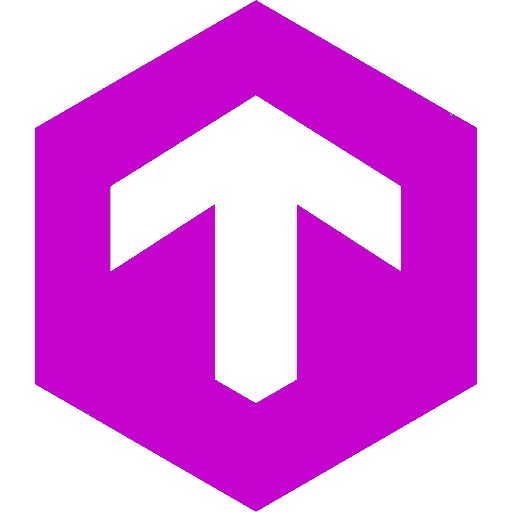
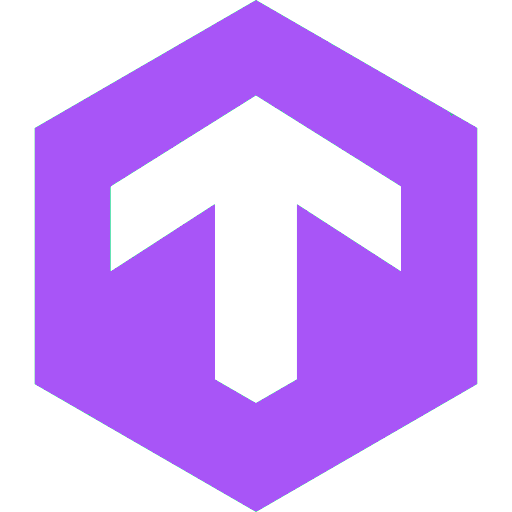
added popup function with nice design

diff --git a/popup.html b/popup.html
@@ -1,0 +1,149 @@
+<!DOCTYPE html>
+<html>
+<head>
+  <style>
+    :root {
+      --bg-dark: #121212;
+      --card-bg: #1e1e1e;
+      --accent-purple: #a855f7;
+      --glow: rgba(168, 85, 247, 0.4);
+      --text-main: #e0e0e0;
+      --text-dim: #888;
+    }
+
+    body {
+      width: 240px;
+      background-color: var(--bg-dark);
+      color: var(--text-main);
+      font-family: 'Segoe UI', system-ui, -apple-system, sans-serif;
+      margin: 0;
+      padding: 16px;
+      display: flex;
+      justify-content: center;
+    }
+
+    .app-container {
+      width: 100%;
+      background: var(--card-bg);
+      border: 1px solid rgba(255, 255, 255, 0.05);
+      border-radius: 12px;
+      padding: 14px;
+      box-shadow: 0 10px 30px rgba(0, 0, 0, 0.5);
+    }
+
+    .header {
+      display: flex;
+      align-items: center;
+      gap: 10px;
+      padding-bottom: 12px;
+      border-bottom: 1px solid rgba(255, 255, 255, 0.1);
+      margin-bottom: 16px;
+    }
+
+    .logo-img {
+      width: 28px;
+      height: 28px;
+      object-fit: contain;
+      /* Purple glow for the logo */
+      filter: drop-shadow(0 0 5px var(--glow)); 
+    }
+
+    h2 {
+      font-size: 13px;
+      font-weight: 600;
+      margin: 0;
+      letter-spacing: 0.8px;
+      color: #fff;
+      text-transform: uppercase;
+    }
+
+    .row {
+      display: flex;
+      justify-content: space-between;
+      align-items: center;
+    }
+
+    .label-group {
+      display: flex;
+      flex-direction: column;
+    }
+
+    .main-label { font-size: 13px; font-weight: 500; }
+    .sub-label { font-size: 10px; color: var(--text-dim); margin-top: 2px; }
+
+    .switch {
+      position: relative;
+      display: inline-block;
+      width: 42px;
+      height: 22px;
+    }
+
+    .switch input { opacity: 0; width: 0; height: 0; }
+
+    .slider {
+      position: absolute;
+      cursor: pointer;
+      top: 0; left: 0; right: 0; bottom: 0;
+      background-color: #333;
+      transition: .3s cubic-bezier(0.4, 0, 0.2, 1);
+      border-radius: 34px;
+    }
+
+    .slider:before {
+      position: absolute;
+      content: "";
+      height: 16px;
+      width: 16px;
+      left: 3px;
+      bottom: 3px;
+      background-color: #fff;
+      transition: .3s cubic-bezier(0.4, 0, 0.2, 1);
+      border-radius: 50%;
+      box-shadow: 0 2px 4px rgba(0,0,0,0.4);
+    }
+
+    input:checked + .slider {
+      background-color: var(--accent-purple);
+      box-shadow: 0 0 15px var(--glow);
+    }
+
+    input:checked + .slider:before {
+      transform: translateX(20px);
+    }
+
+    .footer {
+      margin-top: 16px;
+      padding-top: 10px;
+      border-top: 1px solid rgba(255, 255, 255, 0.05);
+      font-size: 9px;
+      color: #555;
+      text-align: center;
+      letter-spacing: 0.5px;
+    }
+  </style>
+</head>
+<body>
+  <div class="app-container">
+    <div class="header">
+      <img src="icon.png" alt="Logo" class="logo-img">
+      <h2>CHECKMK NAVI</h2>
+    </div>
+    
+    <div class="row">
+      <div class="label-group">
+        <span class="main-label">Auto-Navigation</span>
+        <span class="sub-label">Ensures full UI wrap</span>
+      </div>
+      <label class="switch">
+        <input type="checkbox" id="toggleNav" checked>
+        <span class="slider"></span>
+      </label>
+    </div>
+
+    <div class="footer">
+      v1.2
+    </div>
+  </div>
+  <script src="popup.js"></script>
+</body>
+</html>

diff --git a/content.js b/content.js
@@ -1,19 +1,19 @@
 (function() {
-    if (window.self !== window.top) return;
+    chrome.storage.local.get(['enabled'], (result) => {
+        if (result.enabled === false) return;
 
-    const currentUrl = window.location.href;
-    const nakedScripts = /(dashboard|view|wato|graph_explorer|availability|discovery|conf)\.py/;
+        if (window.self !== window.top) return;
 
-    if (nakedScripts.test(currentUrl) && !currentUrl.includes('index.py')) {
-        
-        const match = currentUrl.match(/(.*\/check_mk\/)(.*)/);
+        const currentUrl = window.location.href;
+        const nakedScripts = /(dashboard|view|wato|graph_explorer|availability|discovery|conf)\.py/;
 
-        if (match && match.length === 3) {
-            const baseUrl = match[1] + "index.py";
-            const startUrl = match[2];
-            const finalUrl = `${baseUrl}?start_url=${encodeURIComponent(startUrl)}`;
-            
-            window.location.replace(finalUrl);
+        if (nakedScripts.test(currentUrl) && !currentUrl.includes('index.py')) {
+            const match = currentUrl.match(/(.*\/check_mk\/)(.*)/);
+            if (match && match.length === 3) {
+                const baseUrl = match[1] + "index.py";
+                const startUrl = match[2];
+                window.location.replace(`${baseUrl}?start_url=${encodeURIComponent(startUrl)}`);
+            }
         }
-    }
+    });
 })();

diff --git a/popup.js b/popup.js
@@ -1,0 +1,9 @@
+const toggle = document.getElementById('toggleNav');
+
+chrome.storage.local.get(['enabled'], (result) => {
+  toggle.checked = result.enabled !== false;
+});
+
+toggle.addEventListener('change', () => {
+  chrome.storage.local.set({ enabled: toggle.checked });
+});
